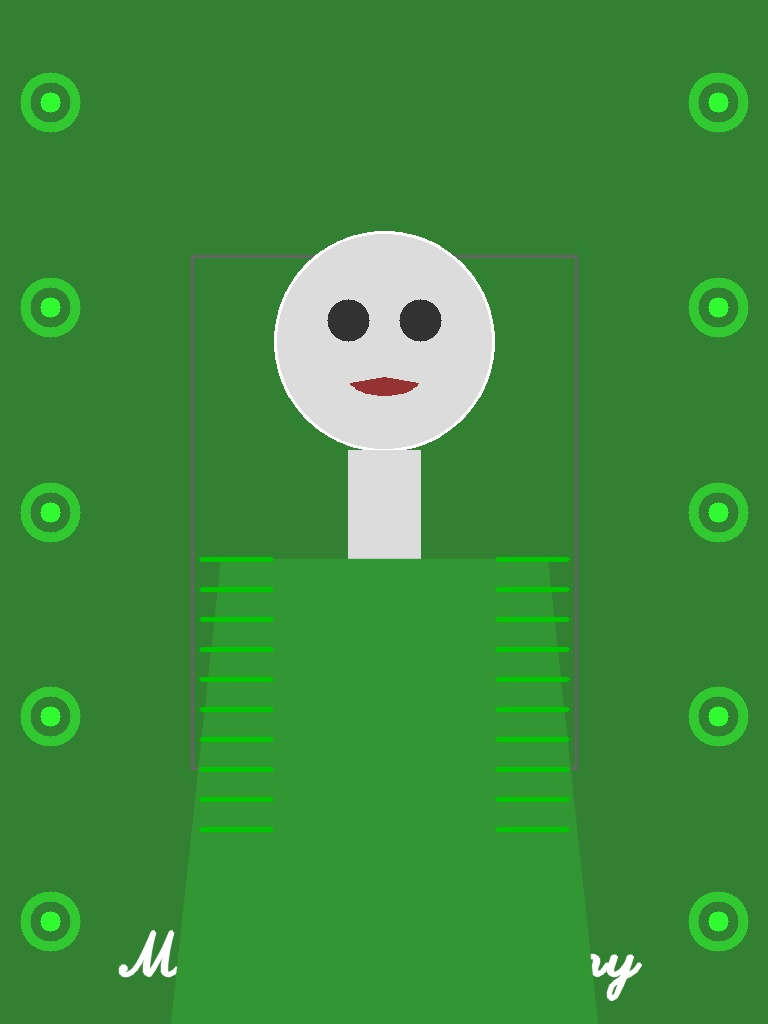
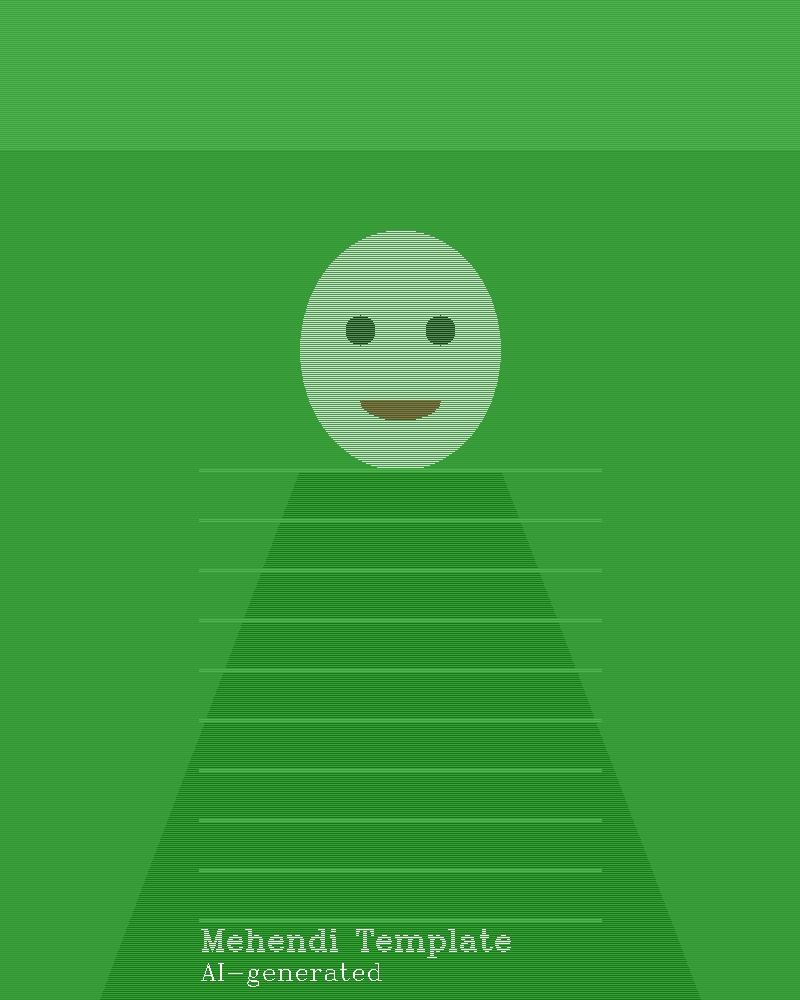
Generate sample images for users to preview different bridal styles
Adds a script to generate simple AI and natural-looking bridal templates using OpenCV, saving them as jpg files in the uploads/templates directory.

Replit-Commit-Author: Agent
Replit-Commit-Session-Id: c93128b3-6f3c-4a9a-9cd6-4f657962eda0
Replit-Commit-Screenshot-Url: https://storage.googleapis.com/screenshot-production-us-central1/671e4920-4d57-4193-a881-e0e940419747/37ced9b5-40bf-4ae4-9236-a278cd7dd4d5.jpg

diff --git a/create_simple_templates.py b/create_simple_templates.py
@@ -1,0 +1,156 @@
+import os
+import cv2
+import numpy as np
+
+def create_simple_templates(output_dir):
+    """Create simple AI-generated and natural-looking bridal templates."""
+    os.makedirs(output_dir, exist_ok=True)
+    
+    # Create templates for each style
+    create_template('haldi', output_dir)
+    create_template('mehendi', output_dir)
+    create_template('wedding', output_dir)
+    create_template('reception', output_dir)
+    
+    print("All templates created successfully.")
+    
+def create_template(style, output_dir):
+    """Create natural and AI templates for a specific bridal style."""
+    # Image dimensions
+    width, height = 800, 1000
+    
+    # Create the natural-style template
+    natural_img = np.zeros((height, width, 3), dtype=np.uint8)
+    
+    # Set background color based on style
+    if style == 'haldi':
+        # Yellow for Haldi
+        background_color = (50, 200, 240)  # BGR for yellow
+        outfit_color = (0, 180, 230)
+        accent_color = (0, 220, 250)
+    elif style == 'mehendi':
+        # Green for Mehendi
+        background_color = (50, 150, 50)
+        outfit_color = (20, 120, 20)
+        accent_color = (80, 180, 80)
+    elif style == 'wedding':
+        # Red for Wedding
+        background_color = (50, 50, 200)
+        outfit_color = (30, 30, 180)
+        accent_color = (70, 70, 220)
+    elif style == 'reception':
+        # Purple/Maroon for Reception
+        background_color = (130, 50, 130)
+        outfit_color = (100, 30, 100)
+        accent_color = (150, 70, 150)
+    
+    # Fill background
+    natural_img[:] = background_color
+    
+    # Add decorative header
+    cv2.rectangle(natural_img, (0, 0), (width, 150), accent_color, -1)
+    
+    # Add a face oval in the upper part
+    face_center_y = 350
+    face_center_x = width // 2
+    face_radius_y = 120
+    face_radius_x = 100
+    
+    # Draw face
+    cv2.ellipse(natural_img, 
+                (face_center_x, face_center_y), 
+                (face_radius_x, face_radius_y), 
+                0, 0, 360, (220, 220, 220), -1)
+    
+    # Draw eyes
+    eye_radius = 15
+    eye_y = face_center_y - 20
+    left_eye_x = face_center_x - 40
+    right_eye_x = face_center_x + 40
+    
+    cv2.circle(natural_img, (left_eye_x, eye_y), eye_radius, (50, 50, 50), -1)
+    cv2.circle(natural_img, (right_eye_x, eye_y), eye_radius, (50, 50, 50), -1)
+    
+    # Draw mouth
+    mouth_y = face_center_y + 50
+    cv2.ellipse(natural_img, 
+                (face_center_x, mouth_y), 
+                (40, 20), 
+                0, 0, 180, (50, 50, 150), -1)
+    
+    # Draw body - simple triangle shape
+    body_points = np.array([
+        [face_center_x - 100, face_center_y + face_radius_y],
+        [face_center_x + 100, face_center_y + face_radius_y],
+        [face_center_x + 300, height],
+        [face_center_x - 300, height]
+    ], dtype=np.int32)
+    
+    cv2.fillPoly(natural_img, [body_points], outfit_color)
+    
+    # Add some decorative elements based on style
+    if style == 'haldi':
+        # Yellow dots for turmeric
+        for _ in range(30):
+            x = np.random.randint(width // 4, 3 * width // 4)
+            y = np.random.randint(face_center_y + face_radius_y, height)
+            radius = np.random.randint(3, 8)
+            cv2.circle(natural_img, (x, y), radius, (0, 240, 255), -1)
+    
+    elif style == 'mehendi':
+        # Green patterns for henna
+        for i in range(10):
+            start_y = face_center_y + face_radius_y + i * 50
+            cv2.line(natural_img, 
+                    (width // 4, start_y), 
+                    (3 * width // 4, start_y), 
+                    accent_color, 3)
+    
+    elif style == 'wedding':
+        # Gold decorations for wedding
+        for i in range(15):
+            start_y = face_center_y + face_radius_y + i * 40
+            cv2.line(natural_img, 
+                    (width // 4 + i * 20, start_y), 
+                    (3 * width // 4 - i * 20, start_y), 
+                    (0, 200, 255), 3)  # Gold color
+            
+    elif style == 'reception':
+        # Sparkles for reception
+        for _ in range(50):
+            x = np.random.randint(width // 4, 3 * width // 4)
+            y = np.random.randint(face_center_y + face_radius_y, height)
+            radius = np.random.randint(1, 3)
+            cv2.circle(natural_img, (x, y), radius, (200, 200, 200), -1)
+    
+    # Add text label
+    font = cv2.FONT_HERSHEY_COMPLEX
+    cv2.putText(natural_img, 
+                f"{style.capitalize()} Template", 
+                (width // 4, height - 50), 
+                font, 1, (255, 255, 255), 2)
+    
+    # Save natural template
+    cv2.imwrite(os.path.join(output_dir, f'{style}_natural.jpg'), natural_img)
+    print(f"Created natural template for {style}")
+    
+    # Create AI template (slightly modified version)
+    ai_img = natural_img.copy()
+    
+    # Add different background pattern
+    for i in range(0, height, 2):
+        cv2.line(ai_img, (0, i), (width, i), 
+                (background_color[0]+10, background_color[1]+10, background_color[2]+10), 1)
+    
+    # Add "AI-generated" label
+    cv2.putText(ai_img, 
+                "AI-generated", 
+                (width // 4, height - 20), 
+                font, 0.8, (255, 255, 255), 1)
+    
+    # Save AI template
+    cv2.imwrite(os.path.join(output_dir, f'{style}_ai.jpg'), ai_img)
+    print(f"Created AI template for {style}")
+
+if __name__ == "__main__":
+    create_simple_templates('uploads/templates')
